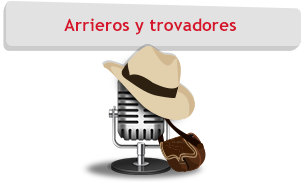
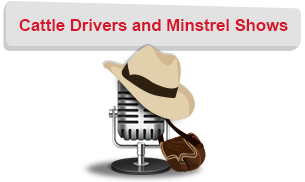
Imagenes en historia

Changed region(s): [[0.059, 0.0824, 0.9443, 0.1923]]

diff --git a/wp-content/themes/feria/category-1.php b/wp-content/themes/feria/category-1.php
@@ -29,7 +29,20 @@
 					<article id="post-<?php the_ID(); ?>" <?php post_class('clearfix'); ?> role="article">
 
 						<section class="post_content">
-                            <?php the_post_thumbnail( 'historia' ); ?>
+                           <?php if(qtrans_getLanguage() == 'es'): ?>
+                           
+                           <?php the_post_thumbnail( 'historia' ); ?>
+                            
+                           <?php else: ?>
+                           
+                           <img src="images/arrierosEn.png" />
+                           <img src="images/atuendosEn.png" />
+                           <img src="images/expresionesEn.png" />
+                           <img src="images/gastronomiaEn.png" />
+                           
+                           <?php endif; ?>
+						   
+                            <img src
                             <h2><?php the_title(); ?></h2>
 							<?php the_excerpt(); ?>
 					
